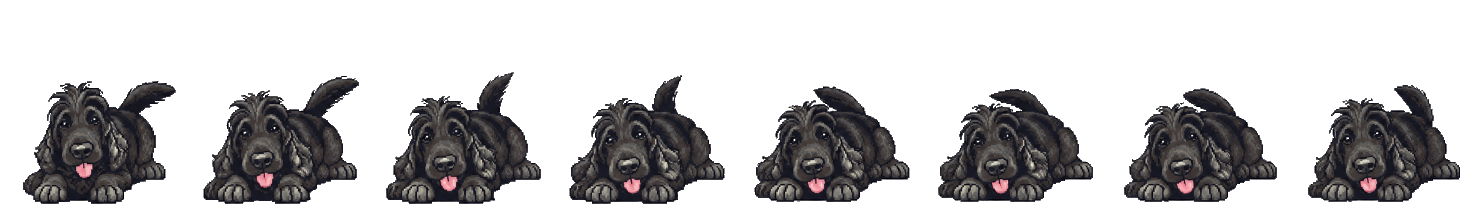
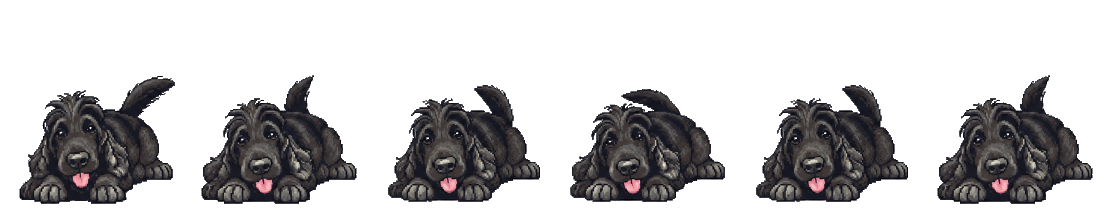
趴下优化：趴着的循环去掉重复帧和跳动帧，尾巴来回摇；速度 2 倍

diff --git a/config.js b/config.js
@@ -28,8 +28,8 @@ export const CONFIG = {
   actions: {
     idle:  { src: 'assets/dog/idle.gif', loop: true }, // 待机：坐着吐舌头（6 帧像素 GIF）
     spin:  { src: 'assets/dog/spin.png', frames: 22, cols: 11, fps: 14 }, // ① 转圈：原地连续转两圈（约 1.6 秒；两圈中间不停顿）（精灵图，播一遍）
-    sit:   { src: 'assets/dog/liedown.png', frames: 5, fps: 3.33 }, // ② 趴下：从坐着趴下去（精灵图，播一遍）
-    lying: { src: 'assets/dog/lying.png', frames: 8, fps: 3.33, loop: true }, //    趴着不动、摇尾巴（趴下后一直是这个样子）
+    sit:   { src: 'assets/dog/liedown.png', frames: 5, fps: 6.67 }, // ② 趴下：从坐着趴下去（精灵图，播一遍，约 0.75 秒）
+    lying: { src: 'assets/dog/lying.png', frames: 6, fps: 6.67, loop: true }, //    趴着不动、尾巴来回摇（趴下后一直是这个样子）
     leave: { src: 'assets/dog/leave.png', frames: 12, cols: 6, fps: 8, duration: 1500 }, // ③ 走开：一下转身，背对你跑远（精灵图；缩小和往远处移由代码做，duration 和精灵图一样长）
     away:  { src: '' },                             //    走远后待着的样子（留空就用 idle）
     come:  { src: 'assets/dog/come.png', frames: 16, cols: 8, fps: 8, duration: 2000 }, // ④ 跑过来：从远处一路跑回来（正面跑步循环）再坐好（精灵图；放大回到面前由代码做）

diff --git a/AGENTS.md b/AGENTS.md
@@ -149,6 +149,8 @@ node tests/gestures.test.mjs
 
 ## 开发日志（最新的写在最上面）
 
+- **2026-11-08 · Claude**：趴下优化（用户说卡顿）：原来趴着的 8 帧里第 8/9/10 帧几乎一样（尾巴停 3 拍），第 4、6 帧头顶高度差 15px（身子上下跳）。`lying.png` 重排成 6 帧来回摇尾巴：原第 5,7,11,9,11,7 帧（头高都在 85–90，爪子位置一致）。速度 2 倍：`sit`（趴下去）和 `lying` 都改成 6.67fps，趴下去约 0.75 秒。只本地提交。
+
 - **2026-11-08 · Claude**：转两圈改成连续不停：`spin.png` 重排成 22 帧（11 列）= 原第 0–10 帧 + 第 1–11 帧，去掉了两圈接缝处的「第一圈最后一帧 + 第二圈第一帧」（两张都是正面，连着会顿一下）；`config.spin` 去掉 `repeat`，14fps 约 1.6 秒。原 12 帧可以从 `.dev/raw/spin.gif` 重新做。`repeat` 功能还留着。只本地提交。
 
 - **2026-11-08 · Claude**：转圈改成转两圈（14fps，共约 1.7 秒）：精灵图新增 `repeat` 选项（一次动作里连着播几遍，`playSprite` 里按 `n × repeat` 算结束），`config.spin` 加了 `repeat: 2`。只本地提交。
